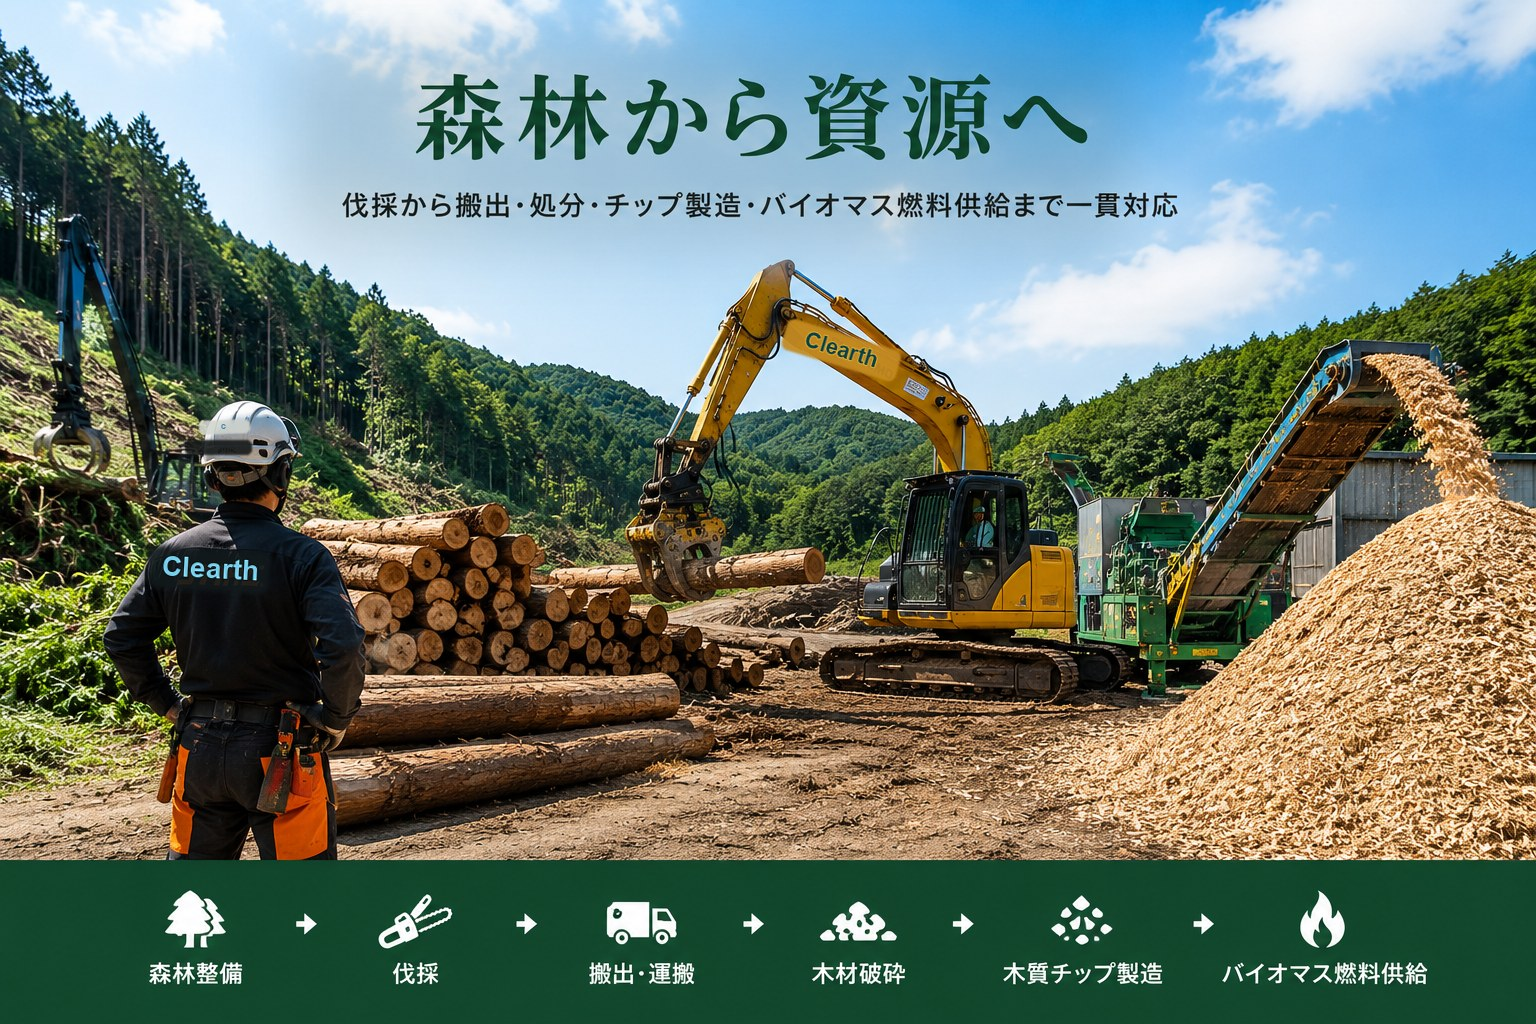
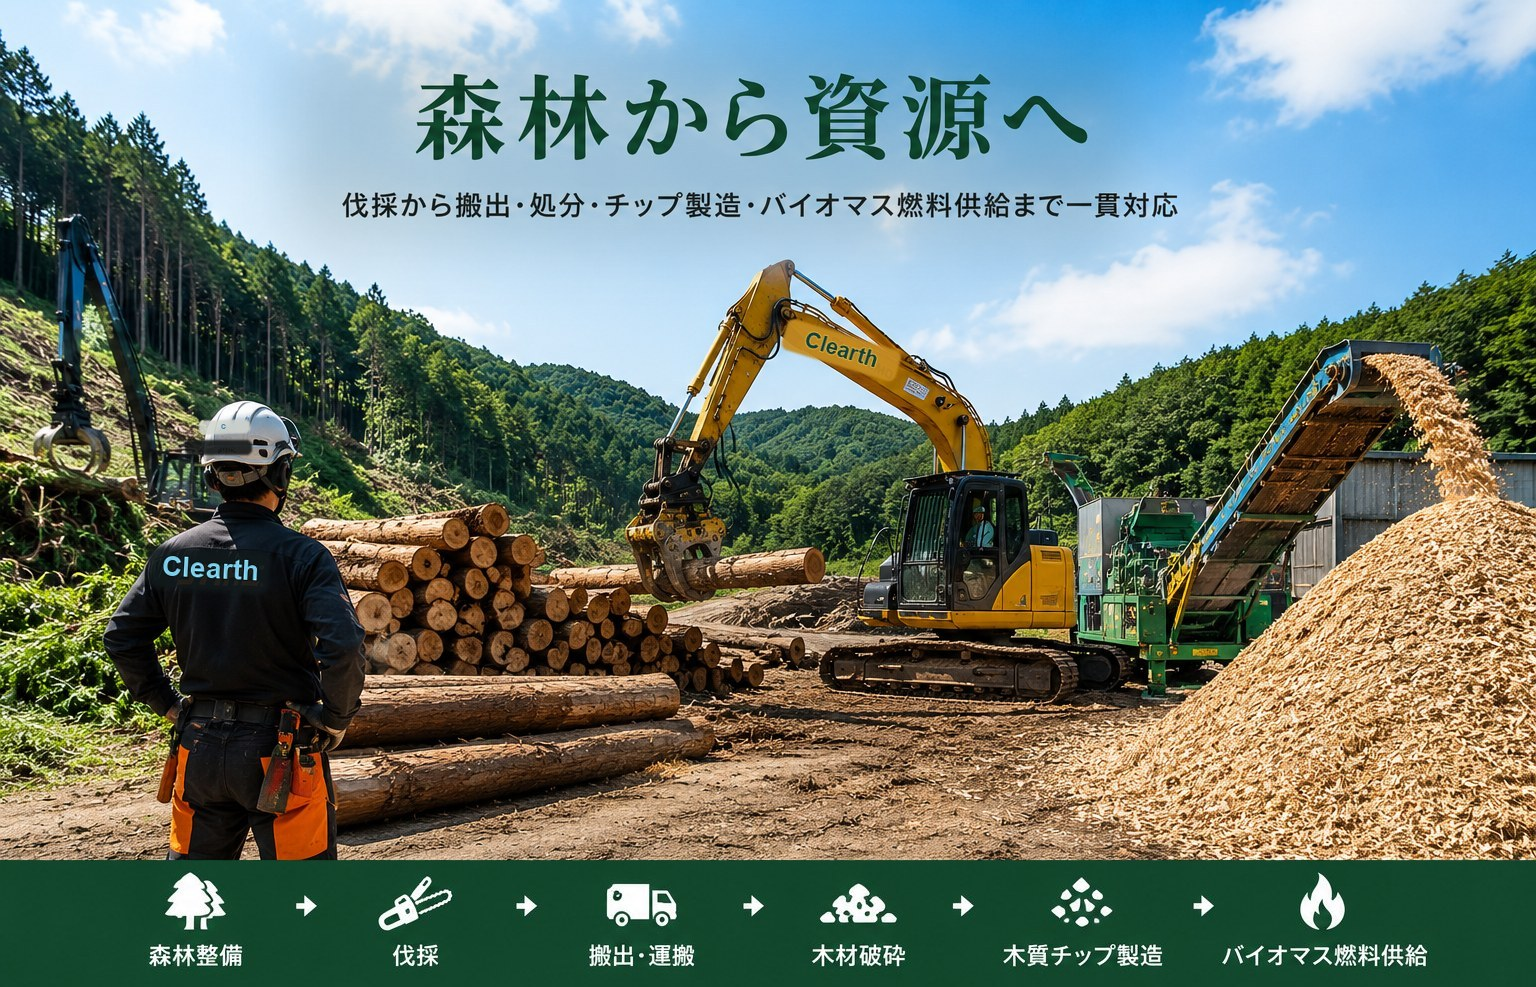
Finalize services hero image spacing

diff --git a/services.html b/services.html
@@ -48,7 +48,7 @@
         <h1>事業内容</h1>
         <p>森林整備から木材リサイクル・木質チップ製造・バイオマス燃料供給まで、現場と資源活用を一体で考えます。</p>
       </div>
-      <div class="lower-hero-image"><picture><source srcset="assets/images/services/wood-recycling.webp?v=20260713-01" type="image/webp"><img src="assets/images/services/wood-recycling.jpg?v=20260713-01" alt="木材リサイクル設備と破砕処理のイメージ画像" loading="eager" decoding="async" width="1536" height="1024" fetchpriority="high"></picture></div>
+      <div class="lower-hero-image"><picture><source srcset="assets/images/services/wood-recycling.webp?v=20260714-01" type="image/webp"><img src="assets/images/services/wood-recycling.jpg?v=20260714-01" alt="木材リサイクル設備と破砕処理のイメージ画像" loading="eager" decoding="async" width="1536" height="987" fetchpriority="high"></picture></div>
     </section>
     
     